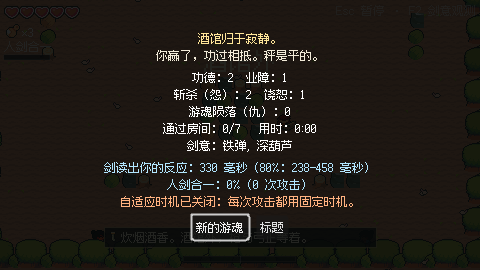
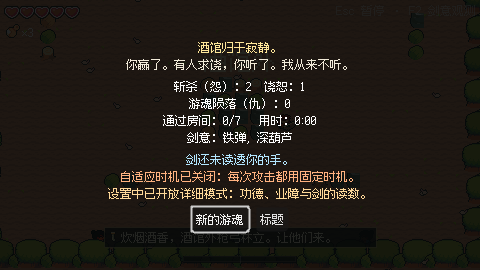
PROGRESS: M4 follow-up done, lines for Chinese review; screens regenerated
Claude-Session: https://claude.ai/code/session_01AfcAfq5gy39RY2zATVopvQ

Changed region(s): [[0.2188, 0.1185, 0.75, 0.9185]]

diff --git a/PROGRESS.md b/PROGRESS.md
@@ -1,5 +1,72 @@
 # Progress
 
+## M4 follow-up · The sword's voice, hidden values and display settings (2026-11-04)
+
+Four items, one commit each. Unit tests: 174 pass (Combat 136, Director 35, Localization 3).
+Scenarios: 28 pass (new: `hidden_values`; `run_bot`, `run_fake`, `run_continue` and `settings`
+check more).
+
+### Done
+1. **Hidden values until the first ending.** Merit and karma counters, the reaction-time numbers
+   and the attunement meter (人剑合一) are gone from the HUD and run summary. Instead merit plays a
+   short **gold glitter** on the player and karma a **wisp of dark smoke** (code-drawn, `MeritFx`;
+   lengths and counts in feel.tres). The summary words the sword's reading instead: "has not read
+   your hand yet", "quick", "still learning" or "slow" (`ReadingQuickMs` 300 / `ReadingSlowMs` 370
+   in run.tres). Beating the boss once is saved in settings.cfg (`[progress] ending_seen`); that
+   summary says Detail mode is now in the settings, and the settings then show **Detail mode**
+   (`[ui] detail_mode`, off by default), which brings every number back. The F1/F2 developer
+   panels are unchanged.
+2. **The sword's character.** Every sword line is rewritten in en, nl and zh_CN as the vengeful
+   will of 风源虹: impatient in the tutorial, hungry for blood, reading you only in words. At the
+   first beggar it says "Kill it." It never warns about fakes (`sword.mercy.warn` is deleted).
+   A spared fake that attacks draws scorn (new `sword.spared_fake`); a fake that strikes at your
+   back gets `sword.first_fake`; a spared genuine beggar gets the grim `sword.first_spare`. Its
+   backstory shows only in hints ("No one spared mine", "Sixty years, and still it is not enough").
+3. **Each new soul gets a slight colour tint**, a random hue seeded by the run seed and the souls
+   fallen (`SoulTintStrength` 0.22 in player.tres).
+4. **Display settings:** windowed, borderless fullscreen and fullscreen, and a window size in whole
+   multiples of 480×270 that fit the screen (×3 = 1440×810 by default, as before). Saved in
+   settings.cfg (`[display] mode, scale`) and applied at launch. The window size only applies to
+   a window; in both full-screen modes it reads "Fits the screen" (the integer stretch already picks
+   the largest multiple). Scenario and screenshot runs never touch the window.
+
+### For your Chinese review (rewritten or new lines)
+All in game/localization/strings.csv. Rewritten: `sword.tut.wake`, `tut.move`, `tut.glint`,
+`tut.block`, `tut.roll`, `tut.gourd`, `tut.break`, `tut.finish`, `tut.done`, `first_deflect`,
+`first_finisher`, `first_surrender`, `first_spare`, `first_karma`, `first_fake`, `fake_seen`,
+`first_red`, `first_arrow`, `first_spear`, `low_health`, `room_clear`, `upgrade`, `death`,
+`new_soul`, `area.bamboo`, `area.outside`, `area.tavern`, `boss.intro`, `boss.phase2`,
+`boss.dead`, `read.attuned`, `read.quicker`, `read.slower`, and the six `verdict.*`.
+Unchanged: `sword.boss.jar`. New: `sword.spared_fake`, `summary.reading.{unread,quick,learning,slow}`,
+`summary.detail_unlocked`, `ui.settings.{detail,display,windowed,borderless,fullscreen,resolution,fit_screen}`.
+Lines I am least sure of: `first_karma` (当年，又有谁饶过我的…… trails off on purpose),
+`first_spare` (愚不可及), `verdict.win_merit` (慈悲是债), `first_spear` (开它的膛).
+
+### Not done / known issues
+- The window mode and size are applied only in a real window; I could test the cycling and
+  saving headless but not the window itself. Check by hand (below).
+- Exclusive fullscreen cannot change the monitor's resolution in Godot; it fills the screen at the
+  largest whole multiple, with black bars if the screen is not a multiple of 480×270.
+- The first-launch window is still the project's 1440×810 until settings.cfg exists; on a screen
+  smaller than that, the saved size is clamped on the next launch.
+- `docs/screens/` regenerated (30 screens); pause_settings now shows the after-ending form.
+
+### Playtest checklist
+1. **Fresh profile** (delete `settings.cfg`): no attunement meter, no merit/karma or ms in the
+   summary. Finish a kneeler (glitter), cut a beggar (smoke), spare one (glitter).
+2. **Beat the boss:** the summary mentions Detail mode; Settings now has it. Turn it on: the meter
+   and numbers return. Quit and relaunch: still there.
+3. **The sword:** play the tutorial and the first beggar in each language. Spare a fake (scorn),
+   spare a genuine one (grim), turn your back on a fake.
+4. **Die twice:** each new soul is a slightly different colour.
+5. **Display:** try all three modes and every window size; relaunch and check they stuck.
+
+### Questions for the playtest
+- Is the glitter/smoke readable in a busy fight, or should it be bigger (feel.tres)?
+- Is the tint too subtle at 0.22?
+- Does the sword's voice feel cruel enough, or too much in the tutorial?
+- Should Detail mode default to on once unlocked?
+
 ## M4 · Playtest fixes, intro, languages and polish (2026-11-04)
 
 All ten items of the kickoff list are done, in order, one commit each (items 1 and 2 share one).
